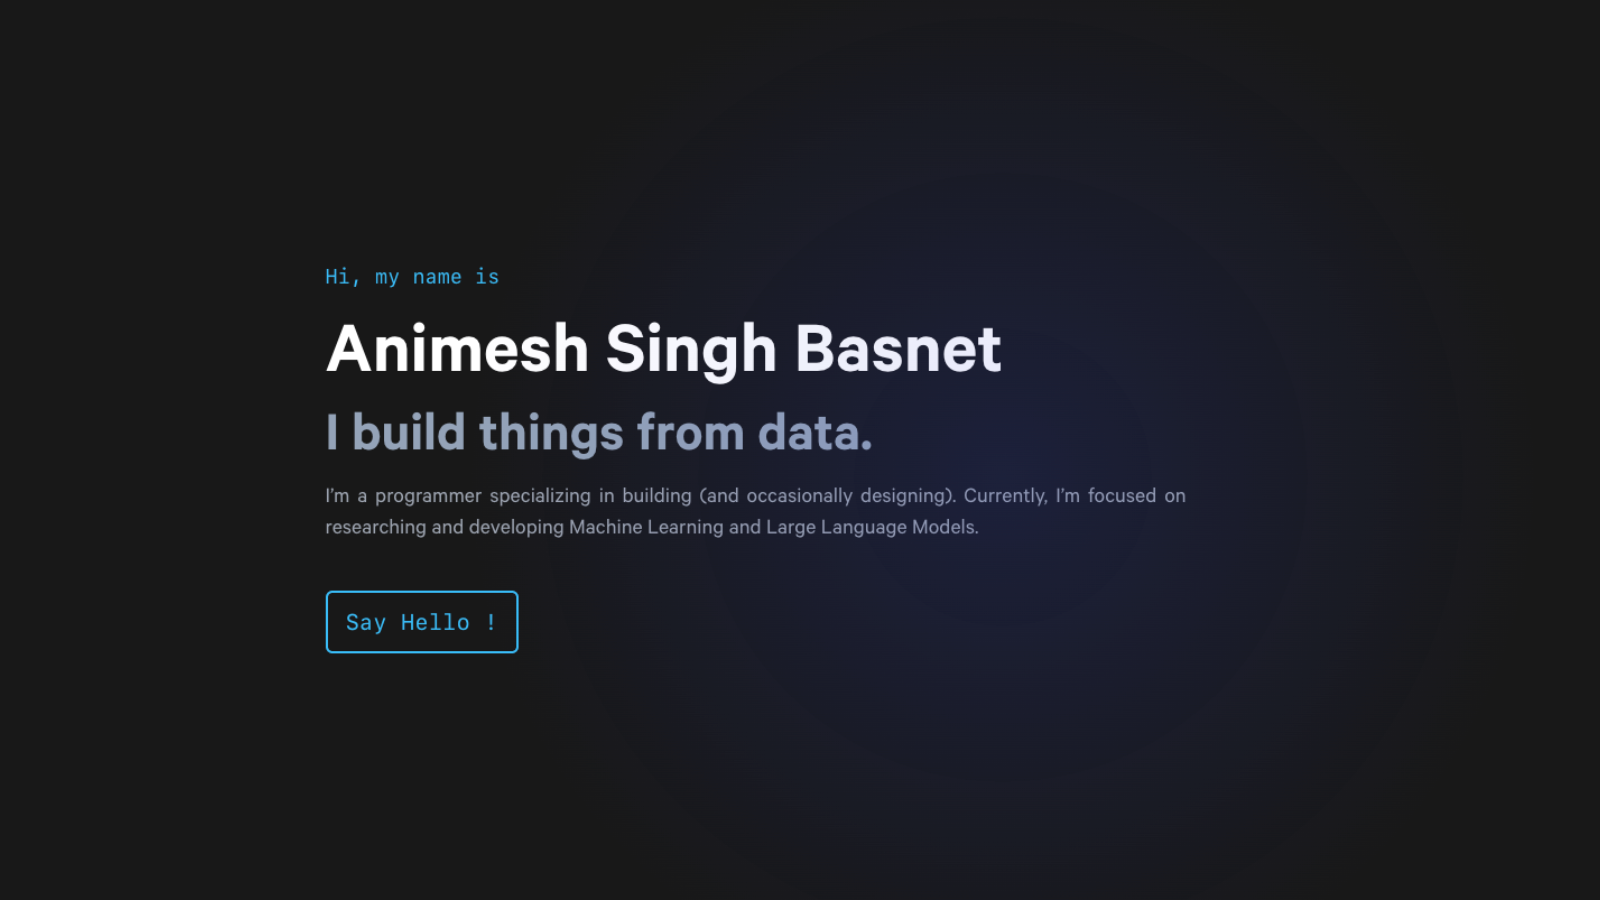
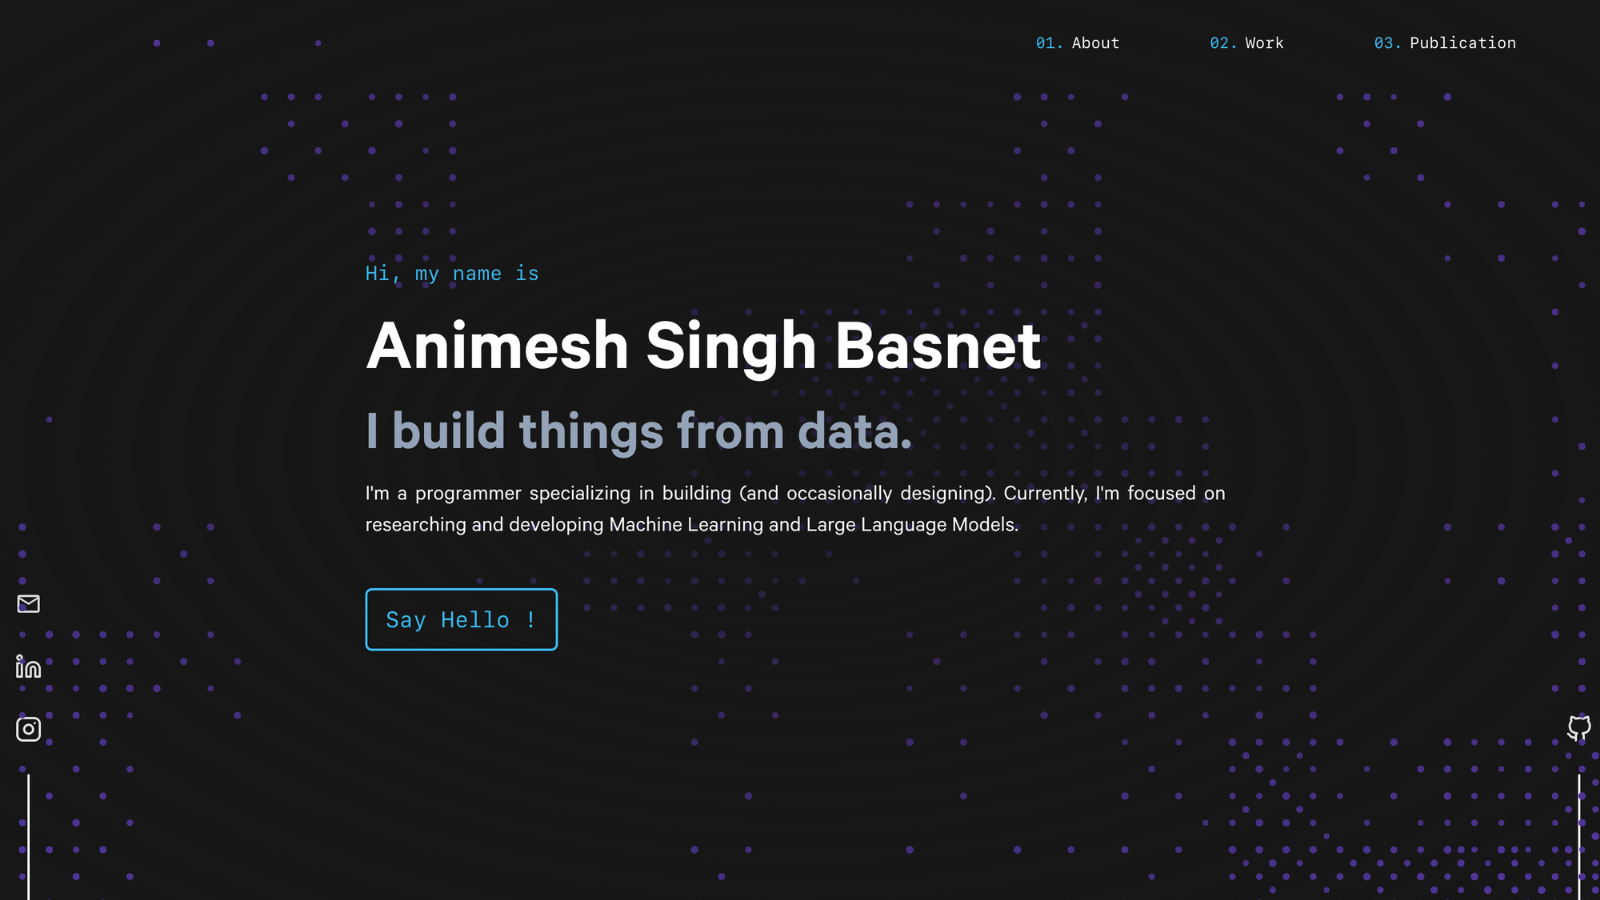
🐛 Bug fixes for ipad

diff --git a/src/pages/Home/components/Socials.tsx b/src/pages/Home/components/Socials.tsx
@@ -21,7 +21,7 @@ export function SocialIcon({ IconComponent, url, type, size='medium' }: { IconCo
 
 export function LeftSocials() {
     return (
-        <div className="fixed bottom-0 left-12 invisible md:visible">
+        <div className="fixed bottom-0 left-6 lg:left-10 xl:left-12 invisible lg:visible">
             <div className="space-y-6">
                 <SocialIcon IconComponent={MdOutlineEmail} url={''} type={'email'} />
                 <SocialIcon IconComponent={FiLinkedin} url={'https://www.linkedin.com/in/animeshbasnet/'} type={'link'} />
@@ -35,7 +35,7 @@ export function LeftSocials() {
 
 export function RightSocials() {
     return (
-        <div className="fixed bottom-0 right-12 invisible md:visible">
+        <div className="fixed bottom-0 right-6 lg:right-10 xl:right-12 invisible lg:visible">
             <div className="space-y-6">
                 <SocialIcon IconComponent={FiGithub} url={'https://github.com/crypticsy/'} type={'link'} />
                 <div className="h-[8rem] w-8 justify-center flex mt-4">

diff --git a/src/pages/Home/components/Publications.tsx b/src/pages/Home/components/Publications.tsx
@@ -107,7 +107,7 @@ function Publication(publication: PulicationProp) {
 export function Publications() {
   return (
     <div
-      className="justify-center flex items-center mt-[15vh] md:pt-[15vh] mx-8"
+      className="justify-center flex items-center mt-[15vh] md:pt-[15vh] mx-8 lg:mx-20"
       id="publications"
     >
       <div className="space-y-8 max-w-6xl">
@@ -115,7 +115,7 @@ export function Publications() {
           <SectionTitle sn={"03."} title={"Publications"} />
         </div>
         <div className="calibre-reg pt-2 md:pt-10 sm:text-xs md:text-xl text-gray-300 text-justify space-y-8 md:space-y-32 w-full">
-          <div className={"grid grid-cols-1 md:grid-cols-3 gap-8"}>
+          <div className={"grid grid-cols-1 md:grid-cols-3 gap-8 px-4 lg:px-0"}>
             {publicaitonList.map((publication, idx) => (
               <Publication key={idx} {...publication} />
             ))}

diff --git a/src/pages/Home/components/Footer.tsx b/src/pages/Home/components/Footer.tsx
@@ -5,8 +5,8 @@ import { SocialIcon } from "./Socials";
 
 export function Footer() {
     return (
-        <div className="items-center space-y-4 mt-[15vh] md:mt-[25vh] mb-[15vh] md:mb-[5vh] mx-8" id="footer">
-            <div className="space-x-3 justify-center flex md:hidden" >
+        <div className="items-center space-y-4 mt-[15vh] md:mt-[25vh] mb-[15vh] md:mb-[5vh] mx-8 lg:mx-20" id="footer">
+            <div className="space-x-3 justify-center flex lg:hidden" >
                 <SocialIcon IconComponent={MdOutlineEmail} url={''} type={'email'} size="small" />
                 <SocialIcon IconComponent={FiLinkedin} url={'https://www.linkedin.com/in/animeshbasnet/'} type={'link'} size="small" />
                 <SocialIcon IconComponent={FiInstagram} url={'https://www.instagram.com/crypticsy/'} type={'link'} size="small" />

diff --git a/src/pages/Home/components/Work.tsx b/src/pages/Home/components/Work.tsx
@@ -339,7 +339,7 @@ export function Work() {
 
   return (
     <div
-      className="justify-center flex items-center mt-[15vh] md:pt-[15vh] mx-8"
+      className="justify-center flex items-center mt-[15vh] md:pt-[15vh] mx-8 lg:mx-20"
       id="work"
     >
       <div className="space-y-8 max-w-6xl w-full">
@@ -362,7 +362,7 @@ export function Work() {
         </div>
 
         {/* Bento Box Grid */}
-        <div className="grid grid-cols-1 md:grid-cols-3 gap-7 auto-rows-[minmax(280px,auto)] px-4 md:px-0">
+        <div className="grid grid-cols-1 md:grid-cols-3 gap-7 auto-rows-[minmax(280px,auto)] px-4 lg:px-0">
           {filteredProjects.map((project, idx) => (
             <BentoProject
               key={idx}

diff --git a/src/pages/Home/components/About.tsx b/src/pages/Home/components/About.tsx
@@ -3,7 +3,7 @@ import { SectionTitle, handleNavLinkClick } from "../../utils";
 export function About() {
   return (
     <div
-      className="justify-center flex items-center pt-[15vh] mx-8"
+      className="justify-center flex items-center pt-[15vh] mx-8 lg:mx-20"
       id="about"
     >
       <div className="space-y-8 max-w-5xl">
